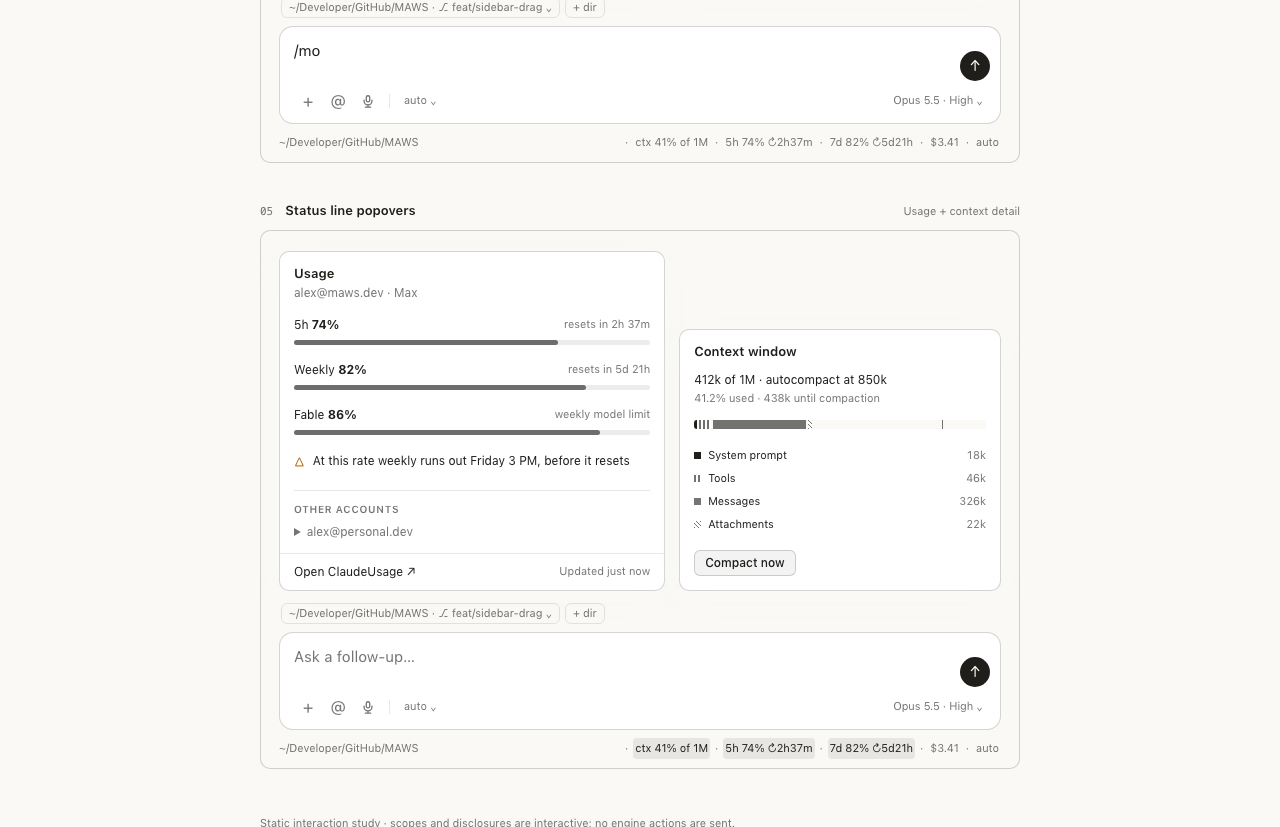
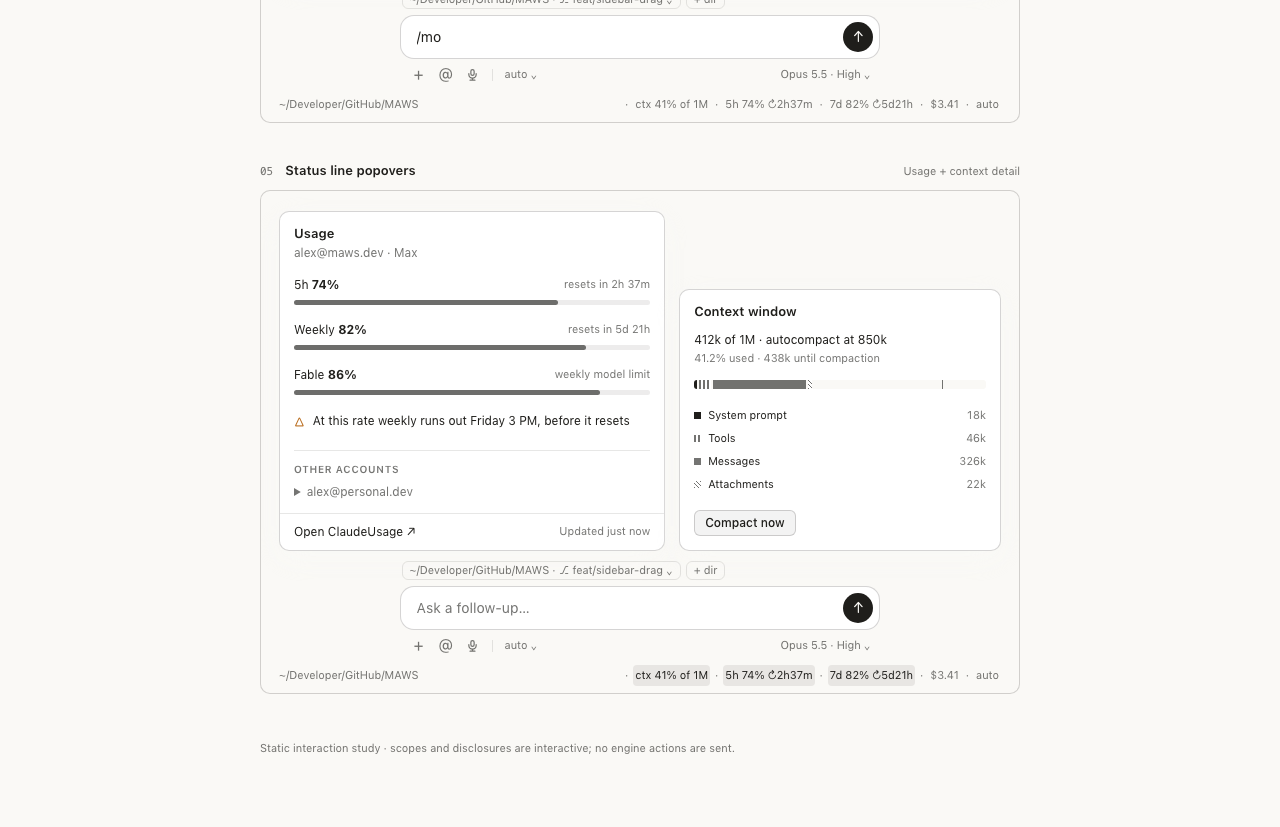
Mockups 01, 04, 05: composer at Claude Desktop's proportions; thin input line, unframed toolbar, two-thirds frame; lighter cards and rows

diff --git a/mockups/04-attention.html b/mockups/04-attention.html
@@ -86,11 +86,11 @@ figcaption .dimension { margin-left: auto; color: var(--fg-muted); font-size: 11
 .quick .hint { margin-top: 13px; }
 /* 02 + 03 — one composer locus, occupied by the permission request. */
 .main-crop { padding: 22px 24px 0; }
-.assistant-line { margin: 3px 0 28px; }
-.locus-label { display: flex; justify-content: space-between; margin: 0 2px 8px; color: var(--fg-muted); font-size: 11px; }
+.assistant-line { margin: 3px 0 22px; }
+.locus-label { display: flex; justify-content: space-between; margin: 0 2px 6px; color: var(--fg-muted); font-size: 11px; }
 .permission { border: 1px solid var(--border-strong); border-top: 2px solid var(--warning); border-radius: var(--radius); background: var(--bg-raised); }
-.permission-content { padding: 16px; }
-.permission-header { margin-bottom: 15px; }
+.permission-content { padding: 14px; }
+.permission-header { margin-bottom: 12px; }
 .permission-header .pending { margin-left: auto; }
 .command-summary { padding: 0; position: relative; }
 .command-summary summary { list-style: none; cursor: pointer; padding: 10px 82px 10px 12px; }
@@ -103,21 +103,21 @@ figcaption .dimension { margin-left: auto; color: var(--fg-muted); font-size: 11
 .why span { color: var(--fg-muted); }
 fieldset { border: 0; padding: 0; margin: 16px 0 0; min-width: 0; }
 legend { font-size: 11px; color: var(--fg-muted); margin-bottom: 7px; }
-.scope { display: flex; gap: 9px; align-items: center; min-height: 32px; padding: 5px 8px; border-radius: 5px; font-size: 12px; cursor: pointer; }
+.scope { display: flex; gap: 9px; align-items: center; min-height: 30px; padding: 5px 8px; border-radius: 5px; font-size: 12px; cursor: pointer; }
 .scope:has(input:checked) { background: var(--accent-soft); }
 .scope input { margin: 0; }
 .scope .scope-note { margin-left: auto; font-size: 11px; color: var(--fg-muted); }
 .deny-reason { margin: 8px 8px 0; font-size: 12px; }
 .deny-reason summary { color: var(--fg-muted); cursor: pointer; width: fit-content; }
 .deny-reason textarea { width: 100%; min-height: 55px; margin-top: 10px; background: var(--bg); color: var(--fg); border: 1px solid var(--border-strong); border-radius: 6px; padding: 8px; resize: vertical; }
-.permission-footer { display: flex; align-items: center; gap: 8px; padding: 12px 16px; border-top: 1px solid var(--border); }
+.permission-footer { display: flex; align-items: center; gap: 8px; padding: 10px 14px; border-top: 1px solid var(--border); }
 .permission-footer .hint { margin-left: auto; }
-.statusline { display: flex; align-items: center; gap: 5px; min-height: 38px; color: var(--fg-muted); font-size: 11px; white-space: nowrap; }
+.statusline { display: flex; align-items: center; gap: 5px; min-height: 34px; color: var(--fg-muted); font-size: 11px; white-space: nowrap; }
 .statusline button { color: inherit; font-size: inherit; padding: 4px 2px; border-radius: 4px; }
 .statusline button:hover,.statusline .hovered { background: var(--bg-active); color: var(--fg); }
 .statusline .path { margin-right: auto; font-size: 11px; }
 .files { border: 1px solid var(--border); background: var(--bg); border-radius: 6px; }
-.file { padding: 11px 12px; }
+.file { padding: 9px 12px; }
 .file+.file { border-top: 1px solid var(--border); }
 .file code { font: 12px var(--font-mono); }
 .file .counts { margin-left: auto; font: 11px var(--font-mono); }
@@ -165,24 +165,23 @@ legend { font-size: 11px; color: var(--fg-muted); margin-bottom: 7px; }
 .switch input:checked+span { background: var(--accent); }
 .switch input:checked+span::before { transform: translateX(10px); background: var(--bg); }
 .switch input:focus-visible+span { outline: 2px solid var(--accent); outline-offset: 3px; }
-/* Composer, Claude Desktop's anatomy (§5.4, D-20): location chips above the box; editor with send inside; toolbar below, inside the box. A docked card takes the box's place under the same chips. */
-.composer-frame { width: 100%; margin: 12px auto 0; }
-.chip-row { display: flex; flex-wrap: wrap; gap: 5px; margin: 0 0 8px 2px; }
-.chip { display: inline-flex; align-items: center; gap: 5px; border: 1px solid var(--border); padding: 3px 7px; border-radius: var(--radius-sm); font-size: 11px; color: var(--fg-muted); white-space: nowrap; }
+/* Composer at Claude Desktop's proportions (§5.4, D-20): chips above; a thin rounded input line holding only the editor and the round send; the controls beneath, unframed. About two thirds of the pane, capped at 720. A docked card takes the box's place under the same chips. */
+.composer-frame { width: clamp(360px, 66.6%, 720px); margin: 10px auto 0; }
+.chip-row { display: flex; flex-wrap: nowrap; gap: 5px; margin: 0 0 6px 2px; overflow: hidden; }
+.chip { display: inline-flex; align-items: center; gap: 5px; border: 1px solid var(--border); padding: 2px 7px; border-radius: var(--radius-sm); font-size: 11px; color: var(--fg-muted); white-space: nowrap; }
 .chip:hover { color: var(--fg); }
-.box { background: var(--bg-raised); border: 1px solid var(--border-strong); border-radius: var(--radius-lg); padding: 10px 10px 8px 14px; }
+.box { display: flex; align-items: flex-end; gap: 8px; min-height: 44px; background: var(--bg-raised); border: 1px solid var(--border-strong); border-radius: var(--radius-lg); padding: 6px 6px 6px 16px; }
 .box:focus-within { border-color: var(--fg-muted); }
-.editor-row { display: flex; align-items: flex-end; gap: 8px; }
-.editor-row textarea { flex: 1; min-width: 0; display: block; resize: none; height: 44px; border: 0; outline: none; background: transparent; font-size: 15px; line-height: 1.6; padding: 2px 0; color: var(--fg); }
-.editor-row textarea::placeholder { color: var(--fg-muted); }
+.box textarea { flex: 1; min-width: 0; display: block; resize: none; height: 22px; max-height: 154px; margin: 4px 0; border: 0; outline: none; background: transparent; font-size: 14px; line-height: 22px; padding: 0; color: var(--fg); }
+.box textarea::placeholder { color: var(--fg-muted); }
 .send { width: 30px; height: 30px; border-radius: 50%; background: var(--fg); color: var(--bg); display: inline-grid; place-items: center; font-size: 15px; flex-shrink: 0; }
 .send:hover { background: var(--fg-muted); }
-.toolbar { display: flex; align-items: center; gap: 2px; margin-top: 6px; }
-.toolbar .icon { width: 28px; height: 28px; font-size: 17px; color: var(--fg-muted); border-radius: 6px; display: inline-flex; align-items: center; justify-content: center; }
+.toolbar { display: flex; align-items: center; gap: 1px; margin: 3px 4px 0 6px; }
+.toolbar .icon { width: 26px; height: 26px; font-size: 16px; color: var(--fg-muted); border-radius: 6px; display: inline-flex; align-items: center; justify-content: center; }
 .toolbar .icon:hover { color: var(--fg); }
-.toolbar svg { width: 14px; height: 14px; fill: none; stroke: currentColor; stroke-width: 1.5; stroke-linecap: round; stroke-linejoin: round; }
-.toolbar .sep { width: 1px; height: 14px; background: var(--border); margin: 0 5px; }
-.tool-chip { font-size: 11px; color: var(--fg-muted); padding: 4px 7px; border-radius: 6px; white-space: nowrap; }
+.toolbar svg { width: 13px; height: 13px; fill: none; stroke: currentColor; stroke-width: 1.5; stroke-linecap: round; stroke-linejoin: round; }
+.toolbar .sep { width: 1px; height: 12px; background: var(--border); margin: 0 5px; }
+.tool-chip { font-size: 11px; color: var(--fg-muted); padding: 3px 6px; border-radius: 6px; white-space: nowrap; }
 .tool-chip:hover { color: var(--fg); }
 .tool-chip.right { margin-left: auto; }
 /* 05 — usage uses one magnitude ink; context uses order + texture + labels. */
@@ -235,7 +234,7 @@ legend { font-size: 11px; color: var(--fg-muted); margin-bottom: 7px; }
  .statusline .path { flex-basis: 100%; }
  .file code { font-size: 10px; overflow-wrap: anywhere; }
  .file .counts { white-space: nowrap; }
- .composer-frame { max-width: none; }
+ .composer-frame { width: 100%; }
 }
 @media (prefers-reduced-motion: reduce) { * { animation: none !important; transition: none !important; } }
 </style>
@@ -363,7 +362,8 @@ legend { font-size: 11px; color: var(--fg-muted); margin-bottom: 7px; }
     <div class="model-bottom"><span class="small muted">Effort</span><fieldset class="effort" aria-label="Model effort"><label><input type="radio" name="effort">Low</label><label><input type="radio" name="effort">Medium</label><label><input type="radio" name="effort" checked>High</label><label><input type="radio" name="effort">Max</label></fieldset><div class="row between small"><label for="fast-mode">Fast mode</label><label class="switch"><input id="fast-mode" type="checkbox"><span></span></label></div></div>
    </section>
   </div>
-  <div class="composer-frame"><div class="chip-row" aria-label="Location"><button class="chip">~/Developer/GitHub/MAWS · ⎇ feat/sidebar-drag ⌄</button><button class="chip">+ dir</button></div><div class="box"><div class="editor-row"><textarea aria-label="Message with slash command" spellcheck="false">/mo</textarea><button class="send" aria-label="Send message" title="Send · ↵">↑</button></div><div class="toolbar"><button class="icon" aria-label="Files, slash commands, connectors, plugins">+</button><button class="icon" aria-label="Mention context">@</button><button class="icon" aria-label="Dictate"><svg viewBox="0 0 16 16" aria-hidden="true"><rect x="6" y="2" width="4" height="7" rx="2"/><path d="M3.5 7v1a4.5 4.5 0 0 0 9 0V7M8 12.5V15M5 15h6"/></svg></button><span class="sep" aria-hidden="true"></span><button class="tool-chip" title="Permission mode">auto ⌄</button><button class="tool-chip right" title="Model and effort">Opus 5.5 · High ⌄</button></div></div></div>
+  <div class="composer-frame"><div class="chip-row" aria-label="Location"><button class="chip">~/Developer/GitHub/MAWS · ⎇ feat/sidebar-drag ⌄</button><button class="chip">+ dir</button></div><div class="box"><textarea aria-label="Message with slash command" spellcheck="false">/mo</textarea><button class="send" aria-label="Send message" title="Send · ↵">↑</button></div>
+     <div class="toolbar"><button class="icon" aria-label="Files, slash commands, connectors, plugins">+</button><button class="icon" aria-label="Mention context">@</button><button class="icon" aria-label="Dictate"><svg viewBox="0 0 16 16" aria-hidden="true"><rect x="6" y="2" width="4" height="7" rx="2"/><path d="M3.5 7v1a4.5 4.5 0 0 0 9 0V7M8 12.5V15M5 15h6"/></svg></button><span class="sep" aria-hidden="true"></span><button class="tool-chip" title="Permission mode">auto ⌄</button><button class="tool-chip right" title="Model and effort">Opus 5.5 · High ⌄</button></div></div>
   <div class="statusline"><span class="path">~/Developer/GitHub/MAWS</span><span>·</span><button>ctx 41% of 1M</button><span>·</span><button>5h 74% ↻2h37m</button><span>·</span><button>7d 82% ↻5d21h</button><span>·</span><button>$3.41</button><span>·</span><button>auto</button></div>
  </div>
 </figure>
@@ -389,7 +389,8 @@ legend { font-size: 11px; color: var(--fg-muted); margin-bottom: 7px; }
     </div>
    </section>
   </div>
-  <div class="composer-frame"><div class="chip-row" aria-label="Location"><button class="chip">~/Developer/GitHub/MAWS · ⎇ feat/sidebar-drag ⌄</button><button class="chip">+ dir</button></div><div class="box"><div class="editor-row"><textarea aria-label="Message" placeholder="Ask a follow-up…"></textarea><button class="send" aria-label="Send message" title="Send · ↵">↑</button></div><div class="toolbar"><button class="icon" aria-label="Files, slash commands, connectors, plugins">+</button><button class="icon" aria-label="Mention context">@</button><button class="icon" aria-label="Dictate"><svg viewBox="0 0 16 16" aria-hidden="true"><rect x="6" y="2" width="4" height="7" rx="2"/><path d="M3.5 7v1a4.5 4.5 0 0 0 9 0V7M8 12.5V15M5 15h6"/></svg></button><span class="sep" aria-hidden="true"></span><button class="tool-chip" title="Permission mode">auto ⌄</button><button class="tool-chip right" title="Model and effort">Opus 5.5 · High ⌄</button></div></div></div>
+  <div class="composer-frame"><div class="chip-row" aria-label="Location"><button class="chip">~/Developer/GitHub/MAWS · ⎇ feat/sidebar-drag ⌄</button><button class="chip">+ dir</button></div><div class="box"><textarea aria-label="Message" placeholder="Ask a follow-up…"></textarea><button class="send" aria-label="Send message" title="Send · ↵">↑</button></div>
+     <div class="toolbar"><button class="icon" aria-label="Files, slash commands, connectors, plugins">+</button><button class="icon" aria-label="Mention context">@</button><button class="icon" aria-label="Dictate"><svg viewBox="0 0 16 16" aria-hidden="true"><rect x="6" y="2" width="4" height="7" rx="2"/><path d="M3.5 7v1a4.5 4.5 0 0 0 9 0V7M8 12.5V15M5 15h6"/></svg></button><span class="sep" aria-hidden="true"></span><button class="tool-chip" title="Permission mode">auto ⌄</button><button class="tool-chip right" title="Model and effort">Opus 5.5 · High ⌄</button></div></div>
   <div class="statusline"><span class="path">~/Developer/GitHub/MAWS</span><span>·</span><button class="hovered">ctx 41% of 1M</button><span>·</span><button class="hovered">5h 74% ↻2h37m</button><span>·</span><button class="hovered">7d 82% ↻5d21h</button><span>·</span><button>$3.41</button><span>·</span><button>auto</button></div>
  </div>
 </figure>

diff --git a/mockups/01-shell.html b/mockups/01-shell.html
@@ -94,7 +94,7 @@ kbd { font: 10px var(--font-ui); color: var(--fg-muted); white-space: nowrap; }
 .tabs > .icon { align-self: center; flex-shrink: 0; margin: 0 3px; }
 .transcript { flex: 1; overflow-y: auto; padding: 28px 36px 12px; scrollbar-width: thin; scrollbar-color: var(--border) transparent; }
 .reading { max-width: var(--measure); margin: 0 auto; }
-.user-bubble { width: fit-content; max-width: 86%; margin-left: auto; padding: 11px 15px; background: var(--bg-overlay); border-radius: var(--radius-lg); font-size: 14px; line-height: 1.6; }
+.user-bubble { width: fit-content; max-width: 86%; margin-left: auto; padding: 9px 14px; background: var(--bg-overlay); border-radius: var(--radius-lg); font-size: 14px; line-height: 1.6; }
 .turn { margin: 27px 0 28px; }
 .assistant-label { display: flex; gap: 7px; align-items: center; font-size: 12px; font-weight: 600; margin-bottom: 10px; }
 .assistant-mark { color: var(--accent); font-size: 21px; line-height: 18px; font-weight: 400; }
@@ -120,33 +120,32 @@ details[open] > summary .chevron { transform: rotate(90deg); }
 .spinner { width: 12px; height: 12px; border: 1.5px solid var(--border-strong); border-top-color: var(--accent); border-radius: 50%; animation: spin 1.3s linear infinite; }
 @keyframes spin { to { transform: rotate(360deg); } }
 .activity-output { padding: 8px 12px 12px 32px; color: var(--fg-muted); font-size: 11px; line-height: 1.9; }
-.composer-zone { padding: 16px 28px 0; flex-shrink: 0; }
-.queue-card { display: flex; align-items: center; gap: 8px; padding: 9px 10px; border: 1px solid var(--border); border-radius: var(--radius-sm); margin: 0 0 12px; font-size: 12px; }
+.composer-zone { padding: 10px 20px 0; flex-shrink: 0; }
+.queue-card { display: flex; align-items: center; gap: 8px; padding: 6px 10px; border: 1px solid var(--border); border-radius: var(--radius-sm); margin: 0 0 8px; font-size: 12px; }
 .queue-card .queued-count { font-size: 10px; color: var(--fg-muted); border-right: 1px solid var(--border); padding-right: 9px; }
 .queue-actions { display: flex; margin-left: auto; gap: 2px; }
 .text-action { color: var(--fg-muted); font-size: 11px; padding: 3px 6px; }
 .queue-actions .steer { color: var(--fg); }
-/* Composer, Claude Desktop's anatomy (§5.4, D-20): location chips above the box; editor with the submit control inside; toolbar below, inside the box. */
-.composer-frame { width: 100%; max-width: 680px; margin: 0 auto; }
-.chip-row { display: flex; flex-wrap: wrap; gap: 5px; margin: 0 0 8px 2px; }
-.chip { display: inline-flex; align-items: center; gap: 5px; border: 1px solid var(--border); padding: 3px 7px; border-radius: var(--radius-sm); font-size: 11px; color: var(--fg-muted); white-space: nowrap; }
+/* Composer at Claude Desktop's proportions (§5.4, D-20): chips above; a thin rounded input line holding only the editor and the submit control; the controls beneath, unframed. About two thirds of the pane, capped at 720. */
+.composer-frame { width: clamp(360px, 66.6%, 720px); margin: 0 auto; }
+.chip-row { display: flex; flex-wrap: nowrap; gap: 5px; margin: 0 0 6px 2px; overflow: hidden; }
+.chip { display: inline-flex; align-items: center; gap: 5px; border: 1px solid var(--border); padding: 2px 7px; border-radius: var(--radius-sm); font-size: 11px; color: var(--fg-muted); white-space: nowrap; }
 .chip:hover { color: var(--fg); }
-.box { background: var(--bg-raised); border: 1px solid var(--border-strong); border-radius: var(--radius-lg); padding: 10px 10px 8px 14px; }
+.box { display: flex; align-items: flex-end; gap: 8px; min-height: 44px; background: var(--bg-raised); border: 1px solid var(--border-strong); border-radius: var(--radius-lg); padding: 6px 6px 6px 16px; }
 .box:focus-within { border-color: var(--fg-muted); }
-.editor-row { display: flex; align-items: flex-end; gap: 8px; }
-.editor-row textarea { flex: 1; min-width: 0; display: block; resize: none; height: 48px; padding: 2px 0; border: 0; outline: none; background: transparent; font-size: 15px; line-height: 1.6; }
-.editor-row textarea::placeholder { color: var(--fg-muted); }
-.queue-submit { background: var(--fg); color: var(--bg); padding: 6px 11px; font-weight: 550; font-size: 12px; display: inline-flex; align-items: center; gap: 8px; flex-shrink: 0; }
+.box textarea { flex: 1; min-width: 0; display: block; resize: none; height: 22px; max-height: 154px; margin: 4px 0; padding: 0; border: 0; outline: none; background: transparent; font-size: 14px; line-height: 22px; }
+.box textarea::placeholder { color: var(--fg-muted); }
+.queue-submit { height: 30px; background: var(--fg); color: var(--bg); padding: 0 11px; font-weight: 550; font-size: 12px; display: inline-flex; align-items: center; gap: 8px; flex-shrink: 0; }
 .queue-submit:hover { background: var(--fg-muted); }
 .queue-submit kbd { color: inherit; }
-.toolbar { display: flex; align-items: center; gap: 2px; margin-top: 6px; }
-.toolbar .icon { font-size: 17px; }
-.toolbar .icon svg { width: 14px; height: 14px; }
-.toolbar .sep { width: 1px; height: 14px; background: var(--border); margin: 0 5px; }
-.tool-chip { font-size: 11px; color: var(--fg-muted); padding: 4px 7px; border-radius: 6px; white-space: nowrap; }
+.toolbar { display: flex; align-items: center; gap: 1px; margin: 3px 4px 0 6px; }
+.toolbar .icon { width: 26px; height: 26px; padding: 5px; font-size: 16px; }
+.toolbar .icon svg { width: 13px; height: 13px; }
+.toolbar .sep { width: 1px; height: 12px; background: var(--border); margin: 0 5px; }
+.tool-chip { font-size: 11px; color: var(--fg-muted); padding: 3px 6px; border-radius: 6px; white-space: nowrap; }
 .tool-chip:hover { color: var(--fg); }
 .tool-chip.right { margin-left: auto; }
-.status-line { min-height: 44px; padding: 8px 0 9px; color: var(--fg-muted); display: flex; flex-wrap: wrap; column-gap: 5px; row-gap: 4px; font-size: 9px; line-height: 13px; font-variant-numeric: tabular-nums; }
+.status-line { min-height: 36px; padding: 6px 0 8px; color: var(--fg-muted); display: flex; flex-wrap: wrap; column-gap: 5px; row-gap: 4px; font-size: 9px; line-height: 13px; font-variant-numeric: tabular-nums; }
 .status-line .cwd { flex-basis: 100%; overflow: hidden; text-overflow: ellipsis; white-space: nowrap; font-family: var(--font-mono); }
 .right-panel { border-left: 1px solid var(--border); background: var(--bg-raised); min-height: 0; overflow-y: auto; }
 .panel-tools { height: 40px; display: flex; align-items: center; justify-content: space-between; border-bottom: 1px solid var(--border); padding: 0 9px; }
@@ -257,7 +256,8 @@ details[open] > summary .chevron { transform: rotate(90deg); }
   <div class="composer-zone"><div class="composer-frame">
     <div class="queue-card"><span class="queued-count">1 queued</span><span>also add the keyboard map</span><div class="queue-actions"><button class="text-action">Edit</button><button class="text-action">Delete</button><button class="text-action steer">Steer ↗</button></div></div>
     <div class="chip-row" aria-label="Location"><button class="chip" title="Worktree .claude/worktrees/charter on branch charter">⎇ charter · .claude/worktrees/charter ⌄</button><button class="chip">+ dir</button></div>
-    <div class="box"><div class="editor-row"><textarea aria-label="Message Claude" placeholder="Do anything"></textarea><button class="queue-submit" title="Queue a message after the current turn">Queue <kbd>↵</kbd></button></div><div class="toolbar"><button class="icon" aria-label="Files, slash commands, connectors, plugins">+</button><button class="icon" aria-label="Mention context">@</button><button class="icon" aria-label="Dictate message"><svg><use href="#mic"/></svg></button><span class="sep" aria-hidden="true"></span><button class="tool-chip" title="Permission mode">auto ⌄</button><button class="tool-chip right" title="Model and effort">Opus 5.5 · High ⌄</button></div></div>
+    <div class="box"><textarea aria-label="Message Claude" placeholder="Do anything"></textarea><button class="queue-submit" title="Queue a message after the current turn">Queue <kbd>↵</kbd></button></div>
+     <div class="toolbar"><button class="icon" aria-label="Files, slash commands, connectors, plugins">+</button><button class="icon" aria-label="Mention context">@</button><button class="icon" aria-label="Dictate message"><svg><use href="#mic"/></svg></button><span class="sep" aria-hidden="true"></span><button class="tool-chip" title="Permission mode">auto ⌄</button><button class="tool-chip right" title="Model and effort">Opus 5.5 · High ⌄</button></div>
     <div class="status-line" aria-label="Session status"><span class="cwd">~/Developer/GitHub/MAWS/.claude/worktrees/charter</span><span>ctx 41% of 1M</span><span>·</span><span>5h 74% ↻2h37m</span><span>·</span><span>7d 82%</span><span>·</span><span>$3.41</span><span>·</span><span>auto</span></div>
   </div></div>
   <div class="bottom-preview" id="bottom-panel" hidden><span class="mono">Terminal</span> <span class="muted">· .claude/worktrees/charter</span><p class="mono">$ <span class="faint">Ready in the session worktree</span></p></div>

diff --git a/mockups/05-sessions.html b/mockups/05-sessions.html
@@ -96,28 +96,27 @@ figcaption .dimension { margin-left: auto; color: var(--fg-muted); font-size: 11
 .pane-main { flex: 1; min-width: 0; display: flex; flex-direction: column; }
 .pane-main.solo { min-height: 500px; }
 .pane-body { flex: 1; display: flex; flex-direction: column; justify-content: center; padding: 24px 20px 40px; }
-.pane-heading { text-align: center; font-size: 17px; font-weight: 550; letter-spacing: -.2px; margin: 0 0 18px; }
-.draft-line { margin: 0 2px 8px; font-size: 12px; color: var(--fg-muted); line-height: 1.5; }
+.pane-heading { text-align: center; font-size: 17px; font-weight: 550; letter-spacing: -.2px; margin: 0 0 14px; }
+.draft-line { margin: 0 2px 6px; font-size: 12px; color: var(--fg-muted); line-height: 1.5; }
 .draft-line q { color: var(--fg); }
-/* Composer, Claude Desktop's anatomy: location chips above the box; editor with send inside; toolbar below, inside the box. */
-.composer-frame { width: 100%; max-width: 680px; margin: 0 auto; }
-.chip-row { display: flex; flex-wrap: wrap; gap: 5px; margin: 0 0 8px 2px; }
-.chip-row .chip { border-color: var(--border); background: transparent; color: var(--fg-muted); padding: 3px 7px; border-radius: var(--radius-sm); }
+/* Composer at Claude Desktop's proportions (§5.4): chips above; a thin rounded input line holding only the editor and the round send, one line tall at rest, growing to a cap; the controls beneath, unframed. The frame is about two thirds of the pane, capped at 720 (floored at 360 so narrow crops stay legible). */
+.composer-frame { width: clamp(360px, 66.6%, 720px); margin: 0 auto; }
+.chip-row { display: flex; flex-wrap: nowrap; gap: 5px; margin: 0 0 6px 2px; overflow: hidden; }
+.chip-row .chip { border-color: var(--border); background: transparent; color: var(--fg-muted); padding: 2px 7px; border-radius: var(--radius-sm); font-size: 11px; }
 .chip-row .chip:hover { color: var(--fg); }
 .chip-row .chip.open { color: var(--fg); border-color: var(--border-strong); background: var(--bg-active); }
-.box { background: var(--bg-raised); border: 1px solid var(--border-strong); border-radius: var(--radius-lg); padding: 10px 10px 8px 14px; }
+.box { display: flex; align-items: flex-end; gap: 8px; min-height: 44px; background: var(--bg-raised); border: 1px solid var(--border-strong); border-radius: var(--radius-lg); padding: 6px 6px 6px 16px; }
 .box:focus-within { border-color: var(--fg-muted); }
-.editor-row { display: flex; align-items: flex-end; gap: 8px; }
-.editor-row textarea { flex: 1; min-width: 0; display: block; resize: none; height: 48px; border: 0; outline: none; background: transparent; font-size: 15px; line-height: 1.6; padding: 2px 0; color: var(--fg); }
-.editor-row textarea::placeholder { color: var(--fg-muted); }
+.box textarea { flex: 1; min-width: 0; display: block; resize: none; height: 22px; max-height: 154px; margin: 4px 0; border: 0; outline: none; background: transparent; font-size: 14px; line-height: 22px; padding: 0; color: var(--fg); }
+.box textarea::placeholder { color: var(--fg-muted); }
 .send { width: 30px; height: 30px; border-radius: 50%; background: var(--fg); color: var(--bg); display: inline-grid; place-items: center; font-size: 15px; flex-shrink: 0; }
 .send:hover { background: var(--fg-muted); }
-.toolbar { display: flex; align-items: center; gap: 2px; margin-top: 6px; }
-.toolbar .icon { width: 28px; height: 28px; font-size: 17px; color: var(--fg-muted); border-radius: 6px; }
+.toolbar { display: flex; align-items: center; gap: 1px; margin: 3px 4px 0 6px; }
+.toolbar .icon { width: 26px; height: 26px; font-size: 16px; color: var(--fg-muted); border-radius: 6px; }
 .toolbar .icon:hover { color: var(--fg); }
-.toolbar svg { width: 14px; height: 14px; fill: none; stroke: currentColor; stroke-width: 1.5; stroke-linecap: round; stroke-linejoin: round; }
-.toolbar .sep { width: 1px; height: 14px; background: var(--border); margin: 0 5px; }
-.tool-chip { font-size: 11px; color: var(--fg-muted); padding: 4px 7px; border-radius: 6px; white-space: nowrap; }
+.toolbar svg { width: 13px; height: 13px; fill: none; stroke: currentColor; stroke-width: 1.5; stroke-linecap: round; stroke-linejoin: round; }
+.toolbar .sep { width: 1px; height: 12px; background: var(--border); margin: 0 5px; }
+.tool-chip { font-size: 11px; color: var(--fg-muted); padding: 3px 6px; border-radius: 6px; white-space: nowrap; }
 .tool-chip:hover { color: var(--fg); }
 .tool-chip.right { margin-left: auto; }
 /* Location popover, shown as its own crop rather than held open in the pane. */
@@ -145,14 +144,14 @@ figcaption .dimension { margin-left: auto; color: var(--fg-muted); font-size: 11
 /* Docked cards replacing the box, 04's anatomy. */
 .docked { border: 1px solid var(--border-strong); border-top: 2px solid var(--info); border-radius: var(--radius); background: var(--bg-raised); }
 .docked.warn-tone { border-top-color: var(--warning); }
-.docked .content { padding: 14px 16px; }
+.docked .content { padding: 12px 14px; }
 .docked .header { display: flex; align-items: center; gap: 8px; margin-bottom: 10px; }
 .docked .header .who { width: 26px; height: 26px; display: inline-grid; place-items: center; background: var(--bg-active); border: 1px solid var(--border-strong); border-radius: 7px; font-size: 15px; flex-shrink: 0; }
 .docked .header .pending { margin-left: auto; font-size: 11px; color: var(--fg-muted); white-space: nowrap; }
 .docked p { font-size: 12px; line-height: 1.55; }
 .docked .endpoint { display: block; font: 11px var(--font-mono); color: var(--fg-muted); margin: -4px 0 10px 34px; }
 .docked .choice { margin: 0; }
-.docked .footer { display: flex; align-items: center; gap: 8px; padding: 10px 16px; border-top: 1px solid var(--border); }
+.docked .footer { display: flex; align-items: center; gap: 8px; padding: 9px 14px; border-top: 1px solid var(--border); }
 .docked .footer .hint { margin-left: auto; text-align: right; }
 .loads { margin: 10px 0 2px; border: 1px solid var(--border); border-radius: 6px; background: var(--bg); }
 .loads .row { padding: 6px 10px; font-size: 11px; }
@@ -309,10 +308,8 @@ figcaption .dimension { margin-left: auto; color: var(--fg-muted); font-size: 11
     <h3 class="pane-heading">What should this session do in MAWS?</h3>
     <div class="composer-frame">
      <div class="chip-row" aria-label="Location"><button class="chip" title="Location: new worktree on branch feat/session-tab">⎇ feat/session-tab · new worktree ⌄</button><button class="chip">+ dir</button></div>
-     <div class="box">
-      <div class="editor-row"><textarea aria-label="First message" placeholder="Message Claude to start the session"></textarea><button class="send" aria-label="Send" title="Send · ↵">↑</button></div>
-      <div class="toolbar"><button class="icon" aria-label="Files, slash commands, connectors, plugins">+</button><button class="icon" aria-label="Mention context">@</button><button class="icon" aria-label="Dictate"><svg><use href="#mic"/></svg></button><span class="sep" aria-hidden="true"></span><button class="tool-chip" title="Permission mode">auto ⌄</button><button class="tool-chip right" title="Model and effort">Opus 5.5 · High ⌄</button></div>
-     </div>
+     <div class="box"><textarea aria-label="First message" placeholder="Message Claude to start the session"></textarea><button class="send" aria-label="Send" title="Send · ↵">↑</button></div>
+     <div class="toolbar"><button class="icon" aria-label="Files, slash commands, connectors, plugins">+</button><button class="icon" aria-label="Mention context">@</button><button class="icon" aria-label="Dictate"><svg><use href="#mic"/></svg></button><span class="sep" aria-hidden="true"></span><button class="tool-chip" title="Permission mode">auto ⌄</button><button class="tool-chip right" title="Model and effort">Opus 5.5 · High ⌄</button></div>
     </div>
    </div>
   </div>
